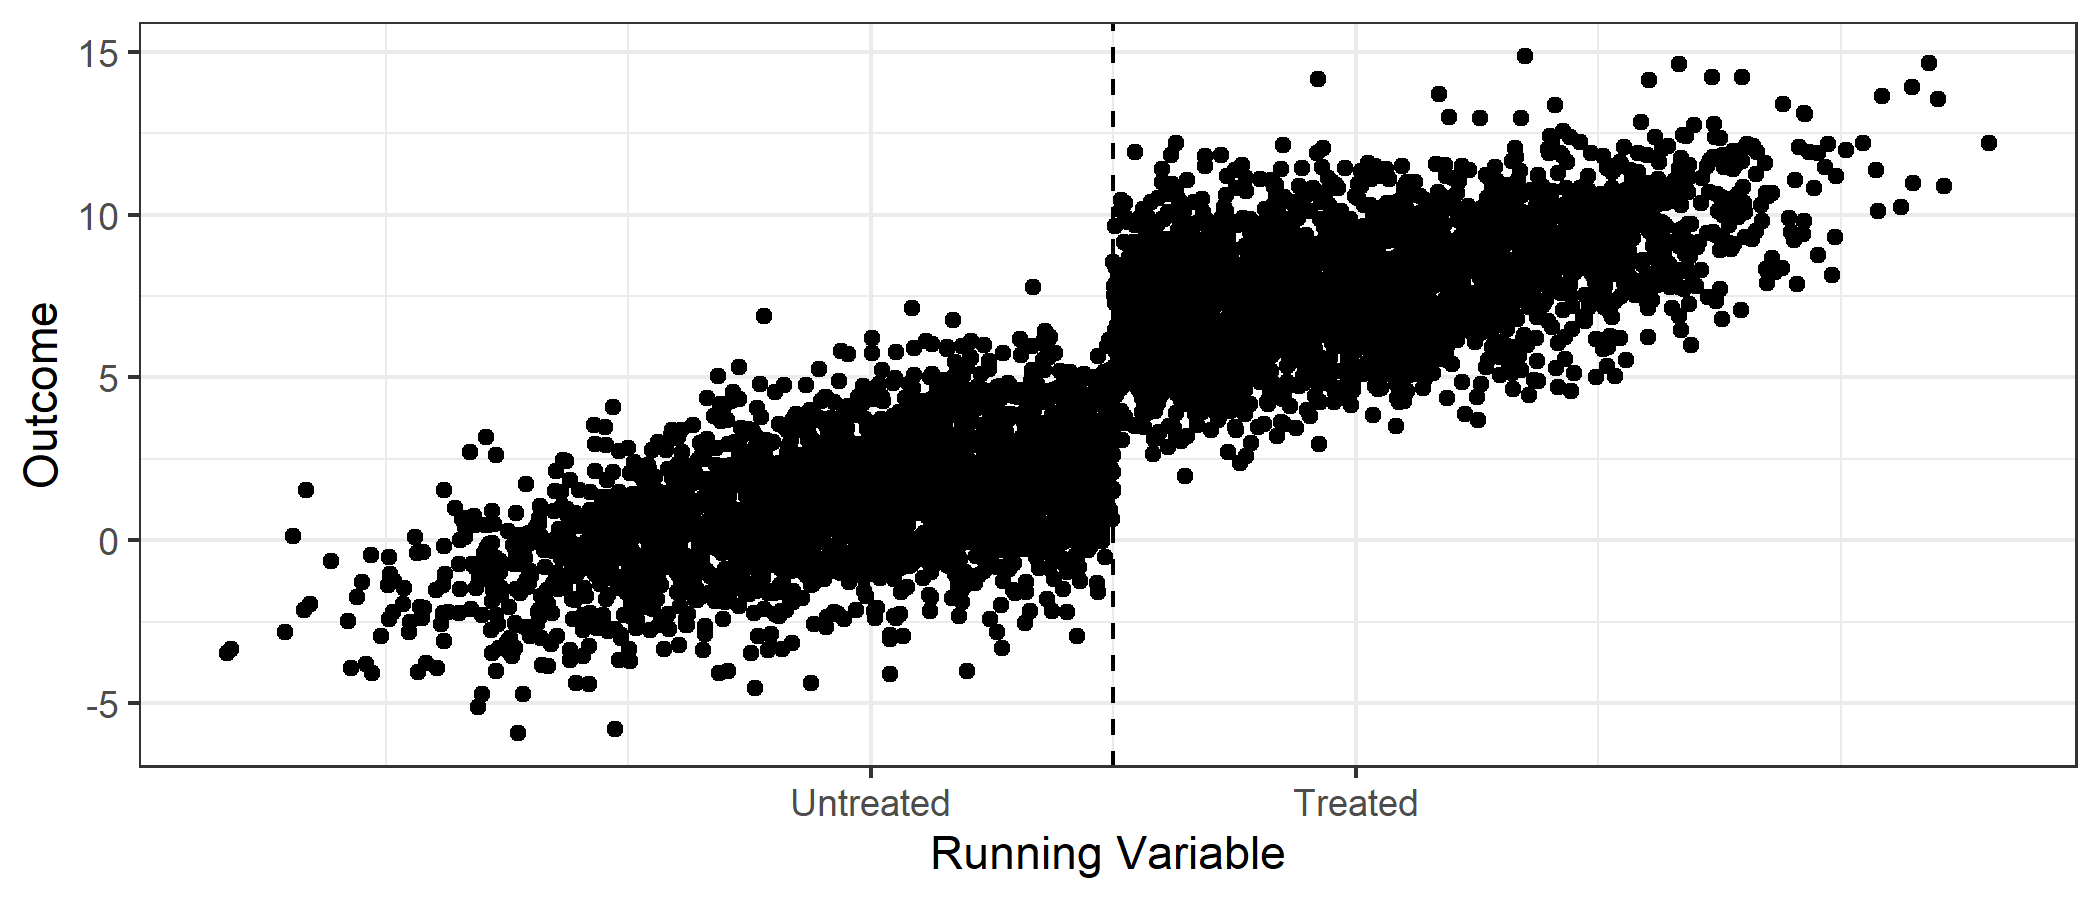
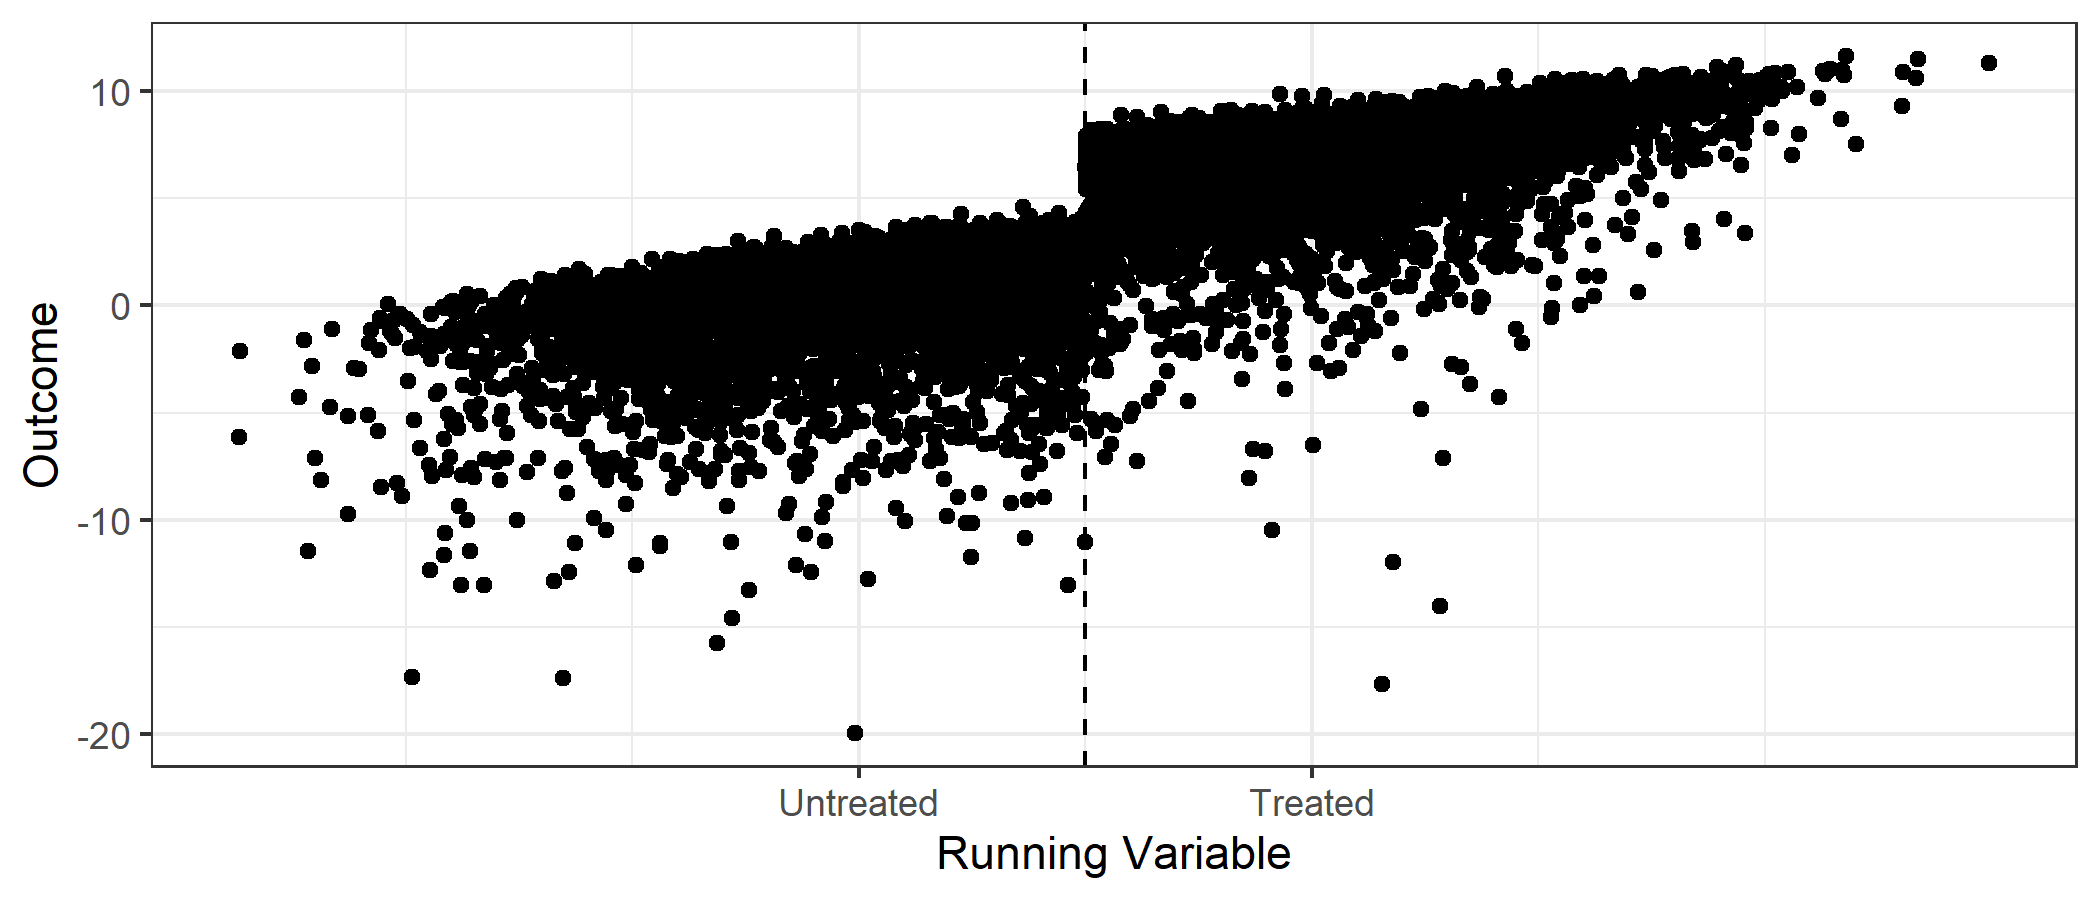
Update section 5 notes

diff --git a/05-RD-MAQuality/05-RD-MAQuality.html b/05-RD-MAQuality/05-RD-MAQuality.html
@@ -105,7 +105,9 @@ Let's take a look at the Medicare Advantage plan options...
 - Complicated formula...&lt;br&gt;
 
 --
-key point: ratings from several domains are averaged and then rounded
+&lt;br&gt;
+
+&lt;b&gt;key point:&lt;/b&gt; ratings from several domains are averaged and then rounded
 
 
 
@@ -124,10 +126,12 @@ name: rd
 Key intuition from RD:&lt;br&gt;
 
 --
-*identical* just above/below threshold
+&lt;br&gt;
+
+Observations are &lt;b&gt;identical&lt;/b&gt; just above/below threshold
 
 ---
-# Inutition
+# Intuition
 Highly relevant in "rule-based" world...
 - School eligibility based on age cutoffs
 - Program participation based on discrete income thresholds
@@ -137,7 +141,10 @@ Highly relevant in "rule-based" world...
 # Types of RD
 1. Sharp regression discontinuity
   - those above the threshold guaranteed to participate
-  
+
+---
+&lt;br&gt;
+
 2. Fuzzy regression discontinuity
   - those above the threshold are eligible but may not participate
 
@@ -178,6 +185,9 @@ Highly relevant in "rule-based" world...
 # More generally
 - Running variable may affect outcome directly
 - Focusing on area around cutoff does two things:
+--
+&lt;br&gt;
+
   1. Controls for running variable
   2. "Controls" for unobserved things correlated with running variable and outcome
 
@@ -198,7 +208,7 @@ Goal is to estimate `\(E[Y(1)|X=c] - E[Y(0)|X=c]\)`
 3. Estimate regressions...
   - Linear, same slope: `\(y = \alpha + \delta W + \beta \tilde{X} + \varepsilon\)`
   - Linear, different slope: `\(y = \alpha + \delta W + \beta \tilde{X} + \gamma W\tilde{X} + \varepsilon\)`
-  - Nonlinear: add polynomials in `\(\tilde{X}\)` and interactions `\(W \tilde{X}\)` (i.e, `\(\tilde{X}^{2}\)` and `\(\tilde{X}^{2} W\)`. 
+  - Nonlinear: add polynomials in `\(\tilde{X}\)` and interactions `\(W \tilde{X}\)`
 
 
 ---
@@ -225,8 +235,8 @@ rd.dat3 &lt;- rd.dat2 %&gt;%
 rd &lt;- lm(Y~x_dev + W, data=rd.dat3)
 ```
 - True effect: 4
-- Standard linear regression with same slopes: 3.73
-- RD (linear with same slopes): 4.29
+- Standard linear regression with same slopes: 3.44
+- RD (linear with same slopes): 3.84
 
 &lt;!-- New Section --&gt;
 ---
@@ -243,6 +253,7 @@ Recall the Medicare Advantage repository, [Medicare Advantage GitHub repository]
 
 --
 &lt;br&gt;
+
 Now we need to work with the full dataset
 
 ---
@@ -253,13 +264,28 @@ ma.data &lt;- read_rds("D:/CloudStation/Professional/Research Projects/_Git/Medi
 ```
 
 ---
+# Summary stats
+Focus on enrollments and star ratings:
+
+```r
+stargazer(as.data.frame(ma.data %&gt;% select(avg_enrollments, avg_eligibles, Star_Rating)), type="html")
+```
+
+```
+## Error in .f(.x[[i]], ...): object 'avg_enrollments' not found
+```
+
+
+---
 # Clean the data
 Limit to plans with:
 - Observed enrollments ($&gt;$ 10)
 - First year of star rating (2009)
 - Observed star rating
 
+--
 &lt;br&gt;
+
 
 ```r
 ma.data.clean &lt;- ma.data %&gt;%
@@ -325,7 +351,33 @@ ma.data.clean %&gt;%
 
 ---
 # Enrollments and star ratings
+Let's just look at the correlation between the two:
 
+```
+## 
+## Call:
+## lm(formula = avg_enrollment ~ factor(Star_Rating), data = ma.data.clean)
+## 
+## Residuals:
+##    Min     1Q Median     3Q    Max 
+##   -627   -388   -214    -51  41908 
+## 
+## Coefficients:
+##                        Estimate Std. Error t value Pr(&gt;|t|)    
+## (Intercept)               87.31      43.32   2.016  0.04387 *  
+## factor(Star_Rating)2      32.75      50.62   0.647  0.51758    
+## factor(Star_Rating)2.5   194.65      47.15   4.128 3.67e-05 ***
+## factor(Star_Rating)3     433.95      49.84   8.707  &lt; 2e-16 ***
+## factor(Star_Rating)3.5   470.91      53.47   8.808  &lt; 2e-16 ***
+## factor(Star_Rating)4     552.30      57.91   9.538  &lt; 2e-16 ***
+## factor(Star_Rating)4.5   272.36      82.68   3.294  0.00099 ***
+## ---
+## Signif. codes:  0 '***' 0.001 '**' 0.01 '*' 0.05 '.' 0.1 ' ' 1
+## 
+## Residual standard error: 1440 on 17451 degrees of freedom
+## Multiple R-squared:  0.01559,	Adjusted R-squared:  0.01526 
+## F-statistic: 46.07 on 6 and 17451 DF,  p-value: &lt; 2.2e-16
+```
 
 
 ---
@@ -359,7 +411,7 @@ ma.rd1 %&gt;% ggplot(aes(x=raw_rating)) +
   ) 
 ```
 
-&lt;img src="05-RD-MAQuality_files/figure-html/unnamed-chunk-6-1.png" style="display: block; margin: auto;" /&gt;
+&lt;img src="05-RD-MAQuality_files/figure-html/unnamed-chunk-8-1.png" style="display: block; margin: auto;" /&gt;
 ]
 
 ---
